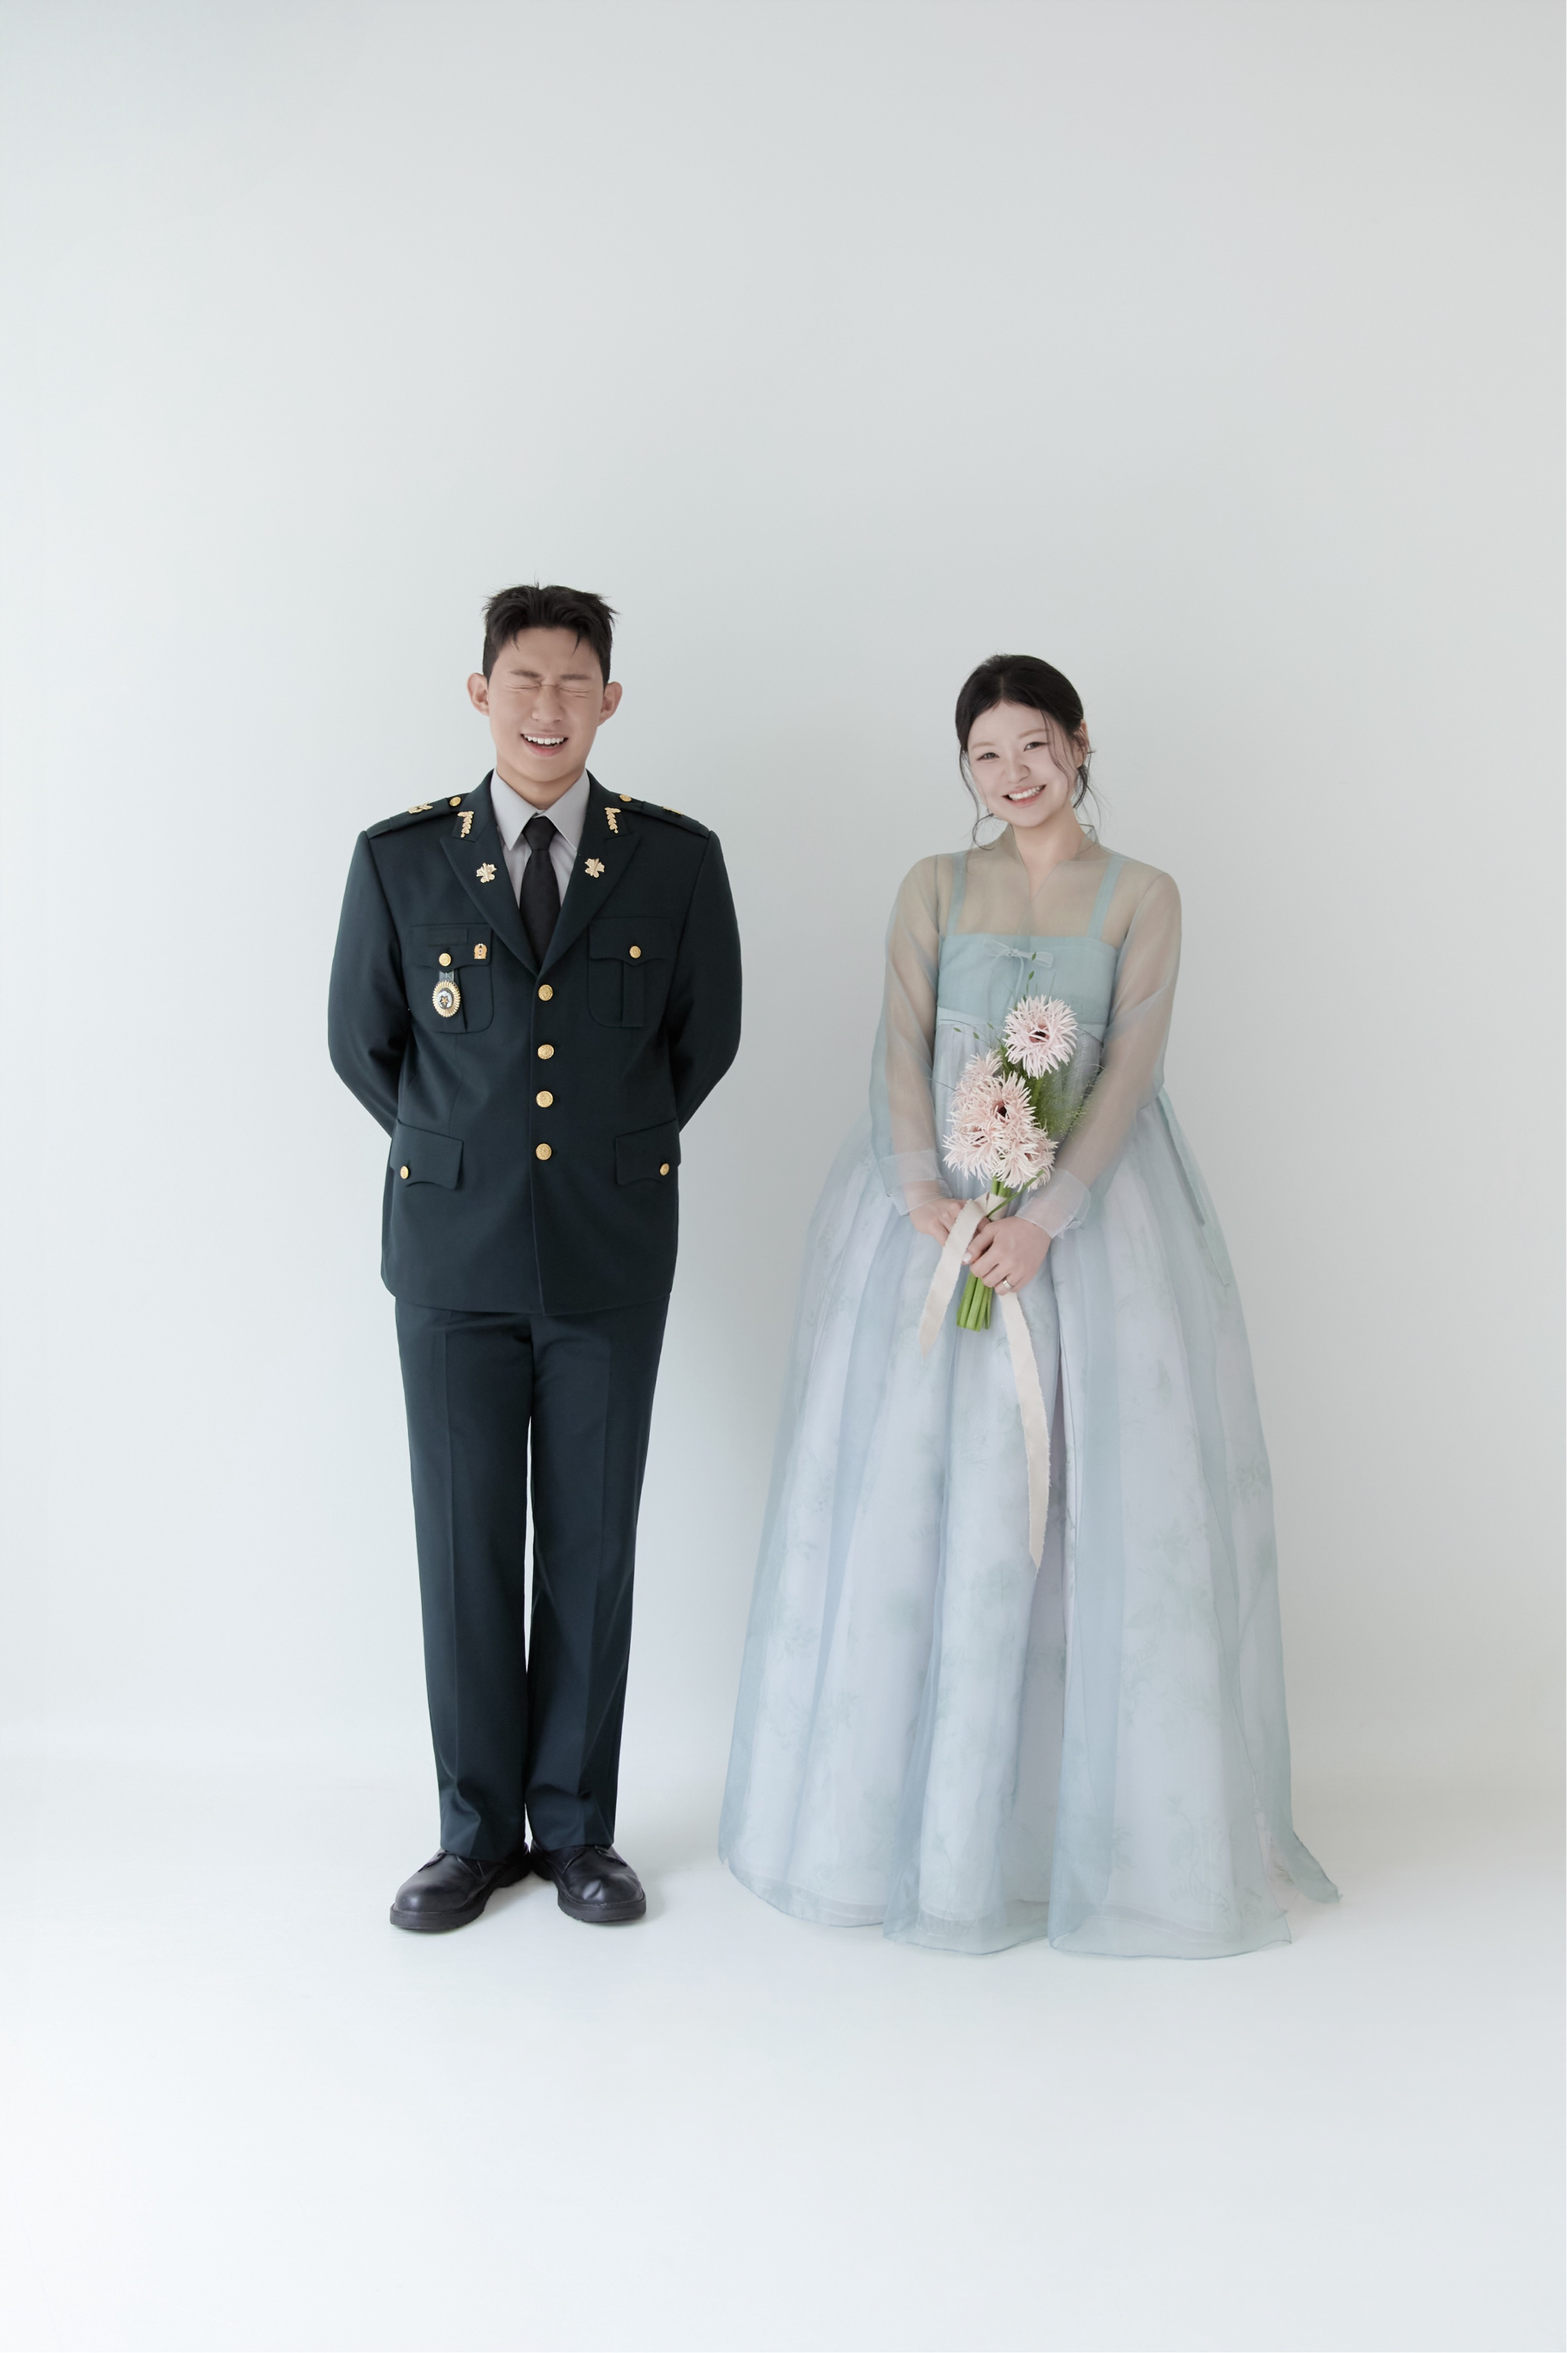
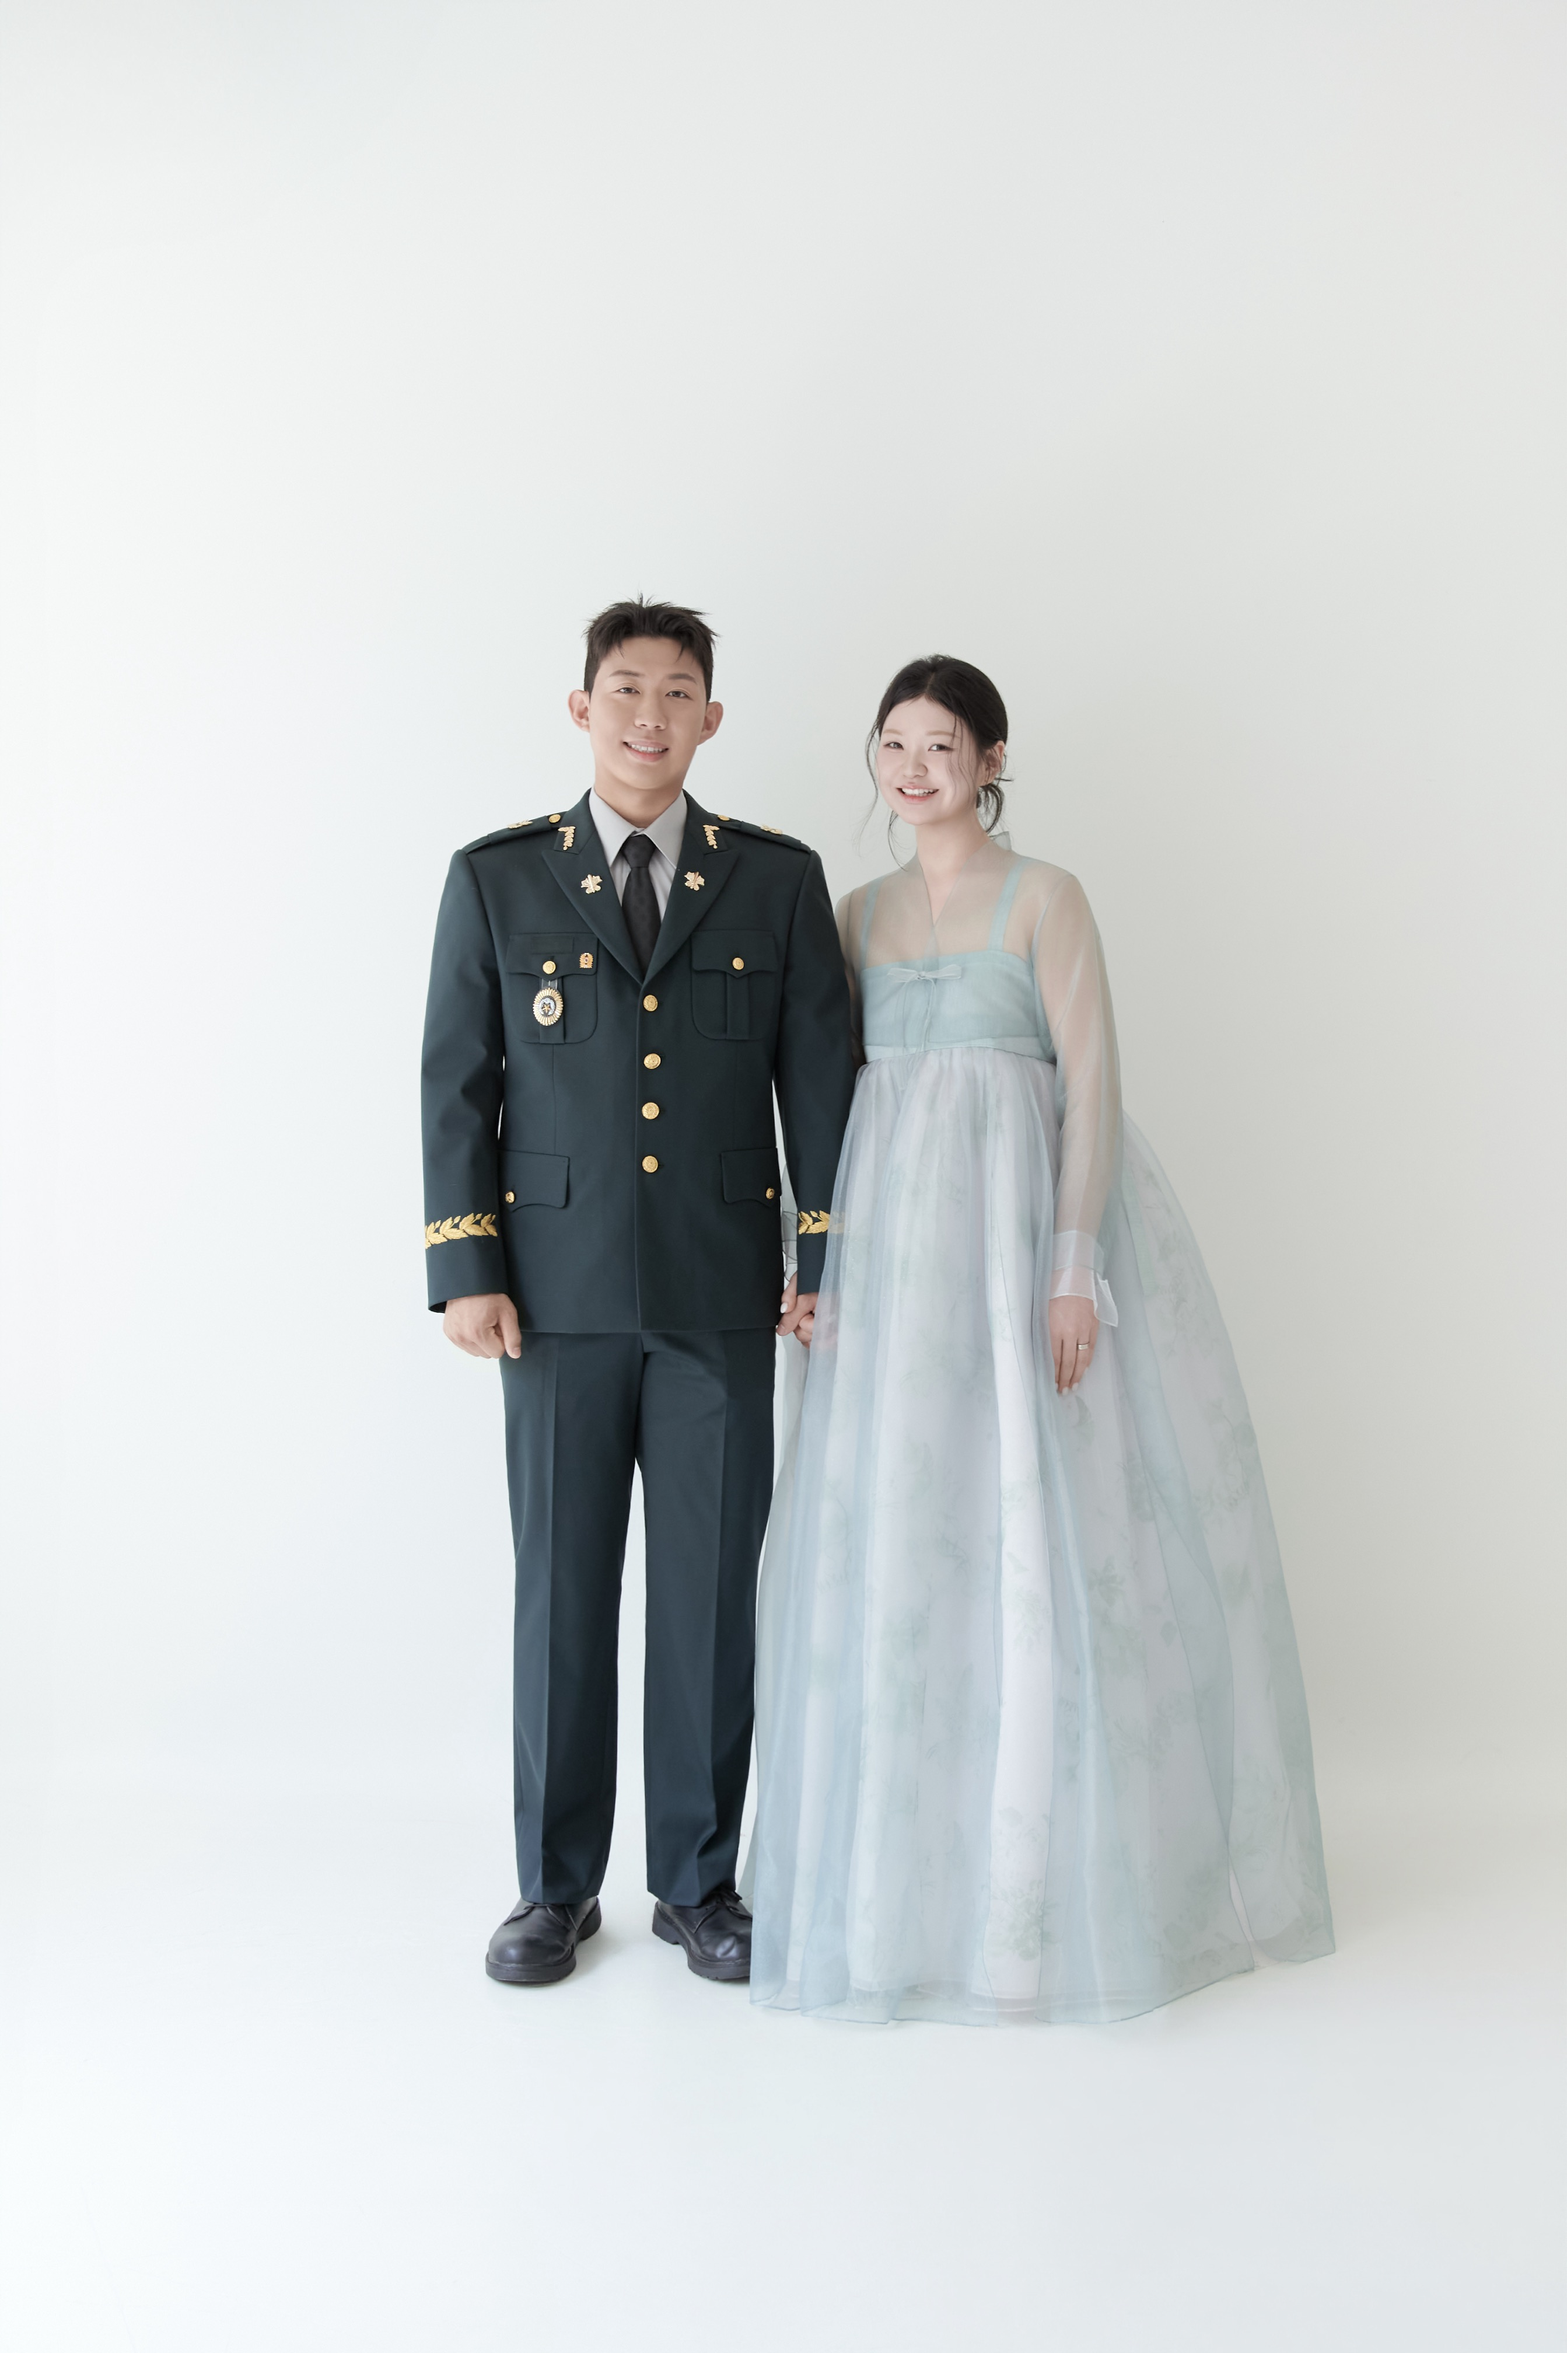
이미지 순서 표시

Changed region(s): [[0.1854, 0.25, 0.8652, 0.875]]

diff --git a/app/page.tsx b/app/page.tsx
@@ -22,7 +22,7 @@ const WEDDING_CONFIG = {
   weddingDate: new Date(2026, 10, 7, 13, 0), // 2026년 11월 7일 오후 1시
 
   // 인사말
-  greetingMessage: "만나보니 잘 맞고,\n같이 있어보니 재밌고,\n더 오래 같이 있고 싶어졌습니다.\n\n그래서 결혼합니다.\n저희의 새로운 시작을 함께 축복해주세요🤍",
+  greetingMessage: "만나보니 잘 맞고,\n같이 있어보니 재밌고,\n더 오래 같이 있고 싶어졌습니다.\n\n그래서 결혼합니다.\n저희의 새로운 시작을 함께 축복해주세요♥",
 
   // 양가 부모님
   groomParents: { father: "박OO", mother: "김OO" },
@@ -55,24 +55,20 @@ const WEDDING_CONFIG = {
 
   // 갤러리 이미지 (public/images 폴더에 넣을 것)
   galleryImages: [
-    "/images/gallery-1.jpg",
-    "/images/gallery-2.jpg",
-    "/images/gallery-3.jpg",
+    "/images/gallery-12.jpg",
+    "/images/gallery-20.jpg",
+    "/images/gallery-14.jpg",
     // "/images/gallery-4.jpg",
     // "/images/gallery-5.jpg",
     // "/images/gallery-6.jpg",
     // "/images/gallery-7.jpg",
     // "/images/gallery-8.jpg",
-    "/images/gallery-15.jpg",
-    "/images/gallery-12.jpg",
     "/images/gallery-13.jpg",
-    "/images/gallery-14.jpg",
-
-    "/images/gallery-16.jpg",
-    "/images/gallery-17.jpg",
-    "/images/gallery-18.jpg",
+    "/images/gallery-21.jpg",
     "/images/gallery-19.jpg",
-    "/images/gallery-20.jpg",
+    "/images/gallery-16.jpg",
+
+    "/images/gallery-15.jpg",
   ],
 
   // 메인 커버 이미지

diff --git a/app/components/Gallery.tsx b/app/components/Gallery.tsx
@@ -126,6 +126,9 @@ export default function Gallery({ images }: GalleryProps) {
               alt={`웨딩 사진 ${lightboxIndex + 1}`}
               onClick={(e) => e.stopPropagation()}
             />
+            <span className="lightbox__counter" onClick={(e) => e.stopPropagation()}>
+              {lightboxIndex + 1} / {images.length}
+            </span>
             <button
               className="lightbox__nav lightbox__nav--next"
               onClick={(e) => { e.stopPropagation(); goToNext(); }}

diff --git a/app/globals.css b/app/globals.css
@@ -591,6 +591,23 @@ button {
   object-fit: contain;
 }
 
+.lightbox__counter {
+  position: absolute;
+  bottom: 2rem;
+  left: 50%;
+  transform: translateX(-50%);
+  color: rgba(255, 255, 255, 0.85);
+  font-size: 0.875rem;
+  font-family: var(--font-body);
+  letter-spacing: 0.15em;
+  background: rgba(0, 0, 0, 0.35);
+  padding: 0.35rem 1rem;
+  border-radius: 999px;
+  backdrop-filter: blur(4px);
+  z-index: 1005;
+  user-select: none;
+}
+
 .lightbox__nav {
   position: absolute;
   top: 0;
